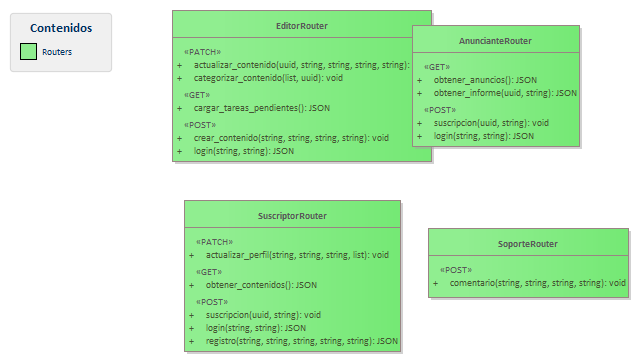
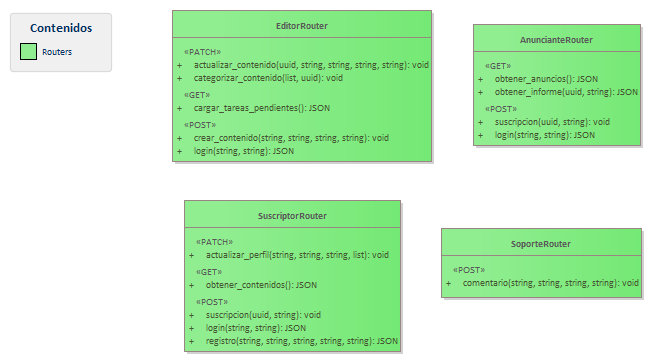
wip

diff --git a/EARoot/EA3/EA1/EA1/EA3/EA118.html b/EARoot/EA3/EA1/EA1/EA3/EA118.html
@@ -38,8 +38,8 @@ function nameClassifier(name, separator)
 <MAP NAME="EA119">
 <area shape="rect" coords="10,13,112,72" href="EA125.html" target="_self">
 <area shape="rect" coords="184,200,401,352" href="EA124.html" target="_self">
-<area shape="rect" coords="428,228,629,298" href="EA123.html" target="_self">
-<area shape="rect" coords="412,25,580,147" href="EA121.html" target="_self">
+<area shape="rect" coords="441,228,642,298" href="EA123.html" target="_self">
+<area shape="rect" coords="473,24,641,146" href="EA121.html" target="_self">
 <area shape="rect" coords="172,10,432,162" href="EA122.html" target="_self">
 </MAP>
 
@@ -51,7 +51,7 @@ function nameClassifier(name, separator)
 		</tr>
 		<tr>
 			<td width="15%" class="ObjectDetailsTopic">Modified:</td>
-			<td width="85%" class="ObjectDetailsValue">20/03/2021 8:09:03 p. m.</td>
+			<td width="85%" class="ObjectDetailsValue">21/03/2021 11:46:40 p. m.</td>
 		</tr>
 		<tr style="padding-top: 10px;">
 			<td width="15%" class="ObjectDetailsTopic"><img src="../../../../../images/plus03.gif" align="absmiddle" id="proj" onclick="parent.toggleData(this.id)" />Project:</td>

diff --git a/EARoot/EA3/EA1/EA1/EA4/EA126.html b/EARoot/EA3/EA1/EA1/EA4/EA126.html
@@ -40,7 +40,7 @@ function nameClassifier(name, separator)
 <area shape="rect" coords="635,222,849,292" href="EA135.html" target="_self">
 <area shape="rect" coords="360,222,587,292" href="EA134.html" target="_self">
 <area shape="rect" coords="105,222,281,292" href="EA133.html" target="_self">
-<area shape="rect" coords="578,67,787,137" href="EA132.html" target="_self">
+<area shape="rect" coords="637,66,846,136" href="EA132.html" target="_self">
 <area shape="rect" coords="328,51,589,152" href="EA131.html" target="_self">
 <area shape="rect" coords="129,67,293,137" href="EA129.html" target="_self">
 </MAP>
@@ -53,7 +53,7 @@ function nameClassifier(name, separator)
 		</tr>
 		<tr>
 			<td width="15%" class="ObjectDetailsTopic">Modified:</td>
-			<td width="85%" class="ObjectDetailsValue">20/03/2021 8:09:03 p. m.</td>
+			<td width="85%" class="ObjectDetailsValue">21/03/2021 11:46:25 p. m.</td>
 		</tr>
 		<tr style="padding-top: 10px;">
 			<td width="15%" class="ObjectDetailsTopic"><img src="../../../../../images/plus03.gif" align="absmiddle" id="proj" onclick="parent.toggleData(this.id)" />Project:</td>

diff --git a/EARoot/EA3/EA1/EA1/EA3/EA121.html b/EARoot/EA3/EA1/EA1/EA3/EA121.html
@@ -2,7 +2,7 @@
 <html xmlns="http://www.w3.org/1999/xhtml">
 <head>
 <meta http-equiv="Content-Type" content="text/html; charset=UTF-8" />
-<title>Routers::AnuncianteRouter</title>
+<title>AnuncianteRouter</title>
 <link href="../../../../../css/ea.css" rel="stylesheet" type="text/css" />
 <script>
 function initPage(src) {	

diff --git a/EARoot/EA3/EA1/EA1/EA3/EA124.html b/EARoot/EA3/EA1/EA1/EA3/EA124.html
@@ -2,7 +2,7 @@
 <html xmlns="http://www.w3.org/1999/xhtml">
 <head>
 <meta http-equiv="Content-Type" content="text/html; charset=UTF-8" />
-<title>Routers::SuscriptorRouter</title>
+<title>SuscriptorRouter</title>
 <link href="../../../../../css/ea.css" rel="stylesheet" type="text/css" />
 <script>
 function initPage(src) {	

diff --git a/EARoot/EA3/EA1/EA1/EA3/EA123.html b/EARoot/EA3/EA1/EA1/EA3/EA123.html
@@ -2,7 +2,7 @@
 <html xmlns="http://www.w3.org/1999/xhtml">
 <head>
 <meta http-equiv="Content-Type" content="text/html; charset=UTF-8" />
-<title>Routers::SoporteRouter</title>
+<title>SoporteRouter</title>
 <link href="../../../../../css/ea.css" rel="stylesheet" type="text/css" />
 <script>
 function initPage(src) {	

diff --git a/EARoot/EA3/EA1/EA1/EA3/EA122.html b/EARoot/EA3/EA1/EA1/EA3/EA122.html
@@ -2,7 +2,7 @@
 <html xmlns="http://www.w3.org/1999/xhtml">
 <head>
 <meta http-equiv="Content-Type" content="text/html; charset=UTF-8" />
-<title>Routers::EditorRouter</title>
+<title>EditorRouter</title>
 <link href="../../../../../css/ea.css" rel="stylesheet" type="text/css" />
 <script>
 function initPage(src) {	
